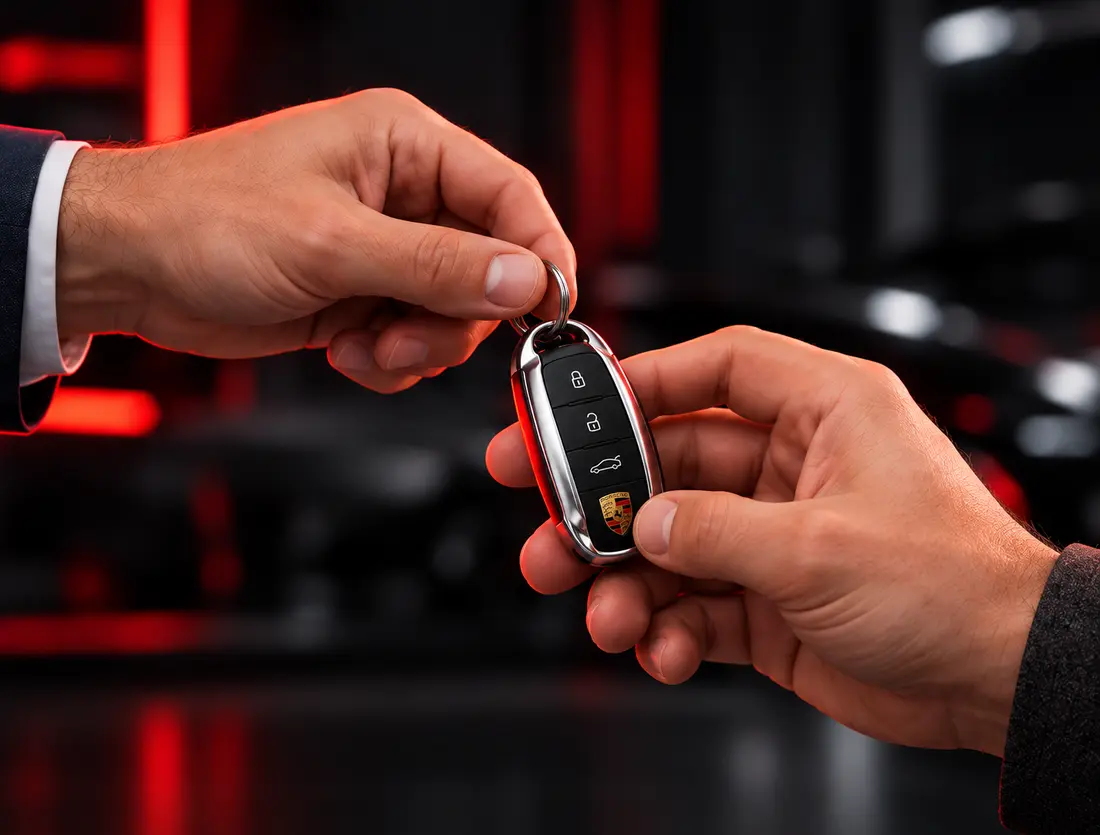
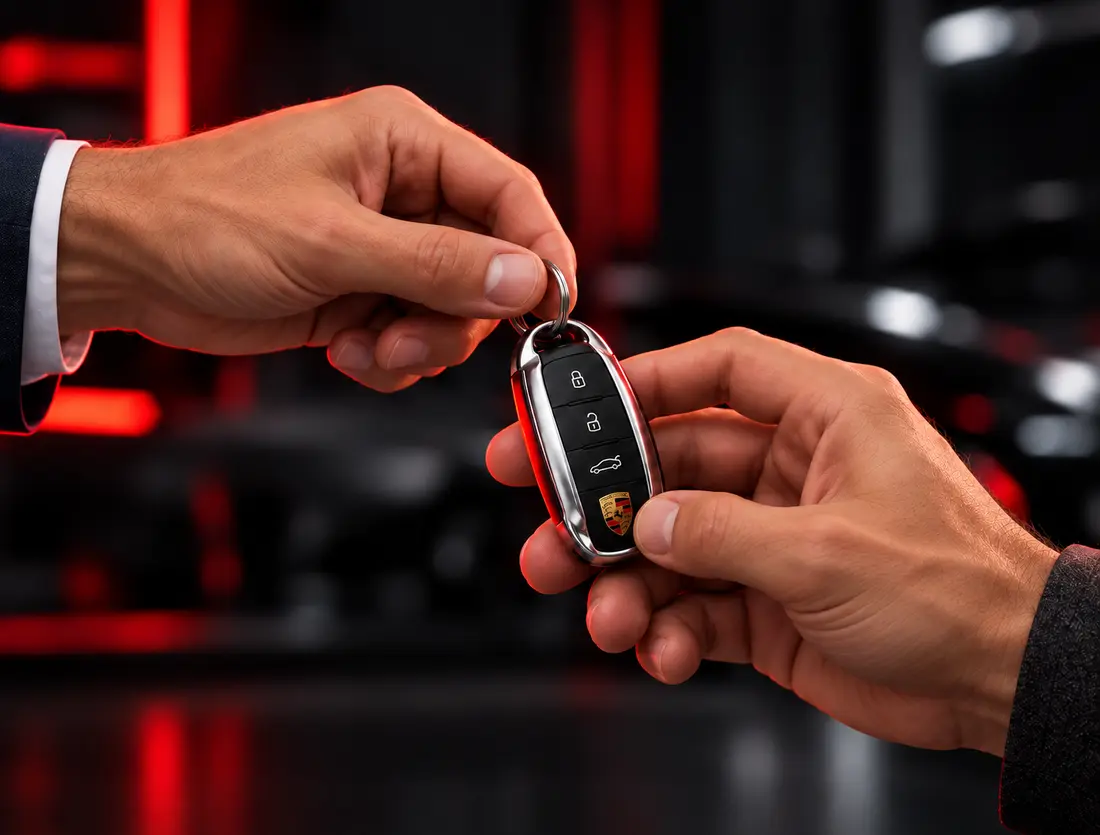
Refine masculine hands in Porsche key handover

diff --git a/index.html b/index.html
@@ -171,7 +171,7 @@
       </div>
       <div class="advantages-grid">
         <article class="advantage-card"><span class="advantage-icon">€</span><small>Transparent kalkuliert</small><h3>Faire Konditionen</h3><p>Klare Leistungen, nachvollziehbare Kosten und eine ehrliche Empfehlung, die zu Ihrem Fahrzeug passt.</p></article>
-        <article class="advantage-card featured pickup-featured"><img class="pickup-handover-photo" src="assets/pickup-key-handover.webp?v=20260928-1017" alt="Persönliche Übergabe eines Porsche-Fahrzeugschlüssels beim Abhol- und Bringservice" loading="lazy"><small>Auf Wunsch</small><h3>Abhol- &amp; Bringservice</h3><p>Wir holen Ihr Fahrzeug bei Ihnen ab und bringen es nach Abschluss der Reparatur wieder zurück.</p></article>
+        <article class="advantage-card featured pickup-featured"><img class="pickup-handover-photo" src="assets/pickup-key-handover.webp?v=20260928-1105" alt="Persönliche Übergabe eines Porsche-Fahrzeugschlüssels beim Abhol- und Bringservice" loading="lazy"><small>Auf Wunsch</small><h3>Abhol- &amp; Bringservice</h3><p>Wir holen Ihr Fahrzeug bei Ihnen ab und bringen es nach Abschluss der Reparatur wieder zurück.</p></article>
         <article class="advantage-card"><span class="advantage-icon">✓</span><small>Erfahren &amp; eingespielt</small><h3>Profi-Team</h3><p>Karosserie, Lack und KFZ-Technik werden bei uns zuverlässig aus einer Hand koordiniert.</p></article>
         <article class="advantage-card"><span class="advantage-icon">P</span><small>Geschützt abgestellt</small><h3>Sichere Stellplätze</h3><p>Ihr Fahrzeug bleibt während des gesamten Aufenthalts ordentlich und sicher bei uns untergebracht.</p></article>
         <article class="advantage-card"><span class="advantage-icon">⚙</span><small>Kurze Wege</small><h3>Schnelle Teilebeschaffung</h3><p>Benötigte Ersatzteile organisieren wir schnell und passend, damit Reparaturzeiten möglichst kurz bleiben.</p></article>
